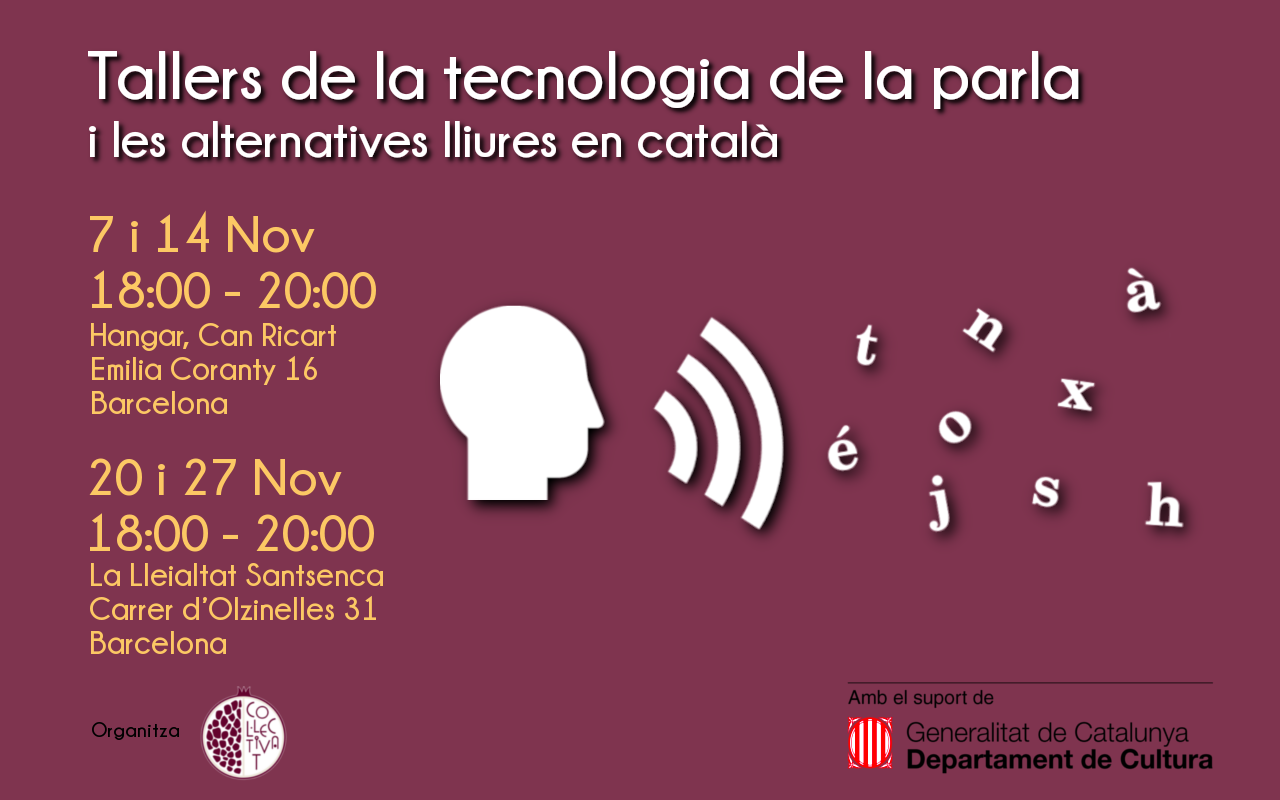
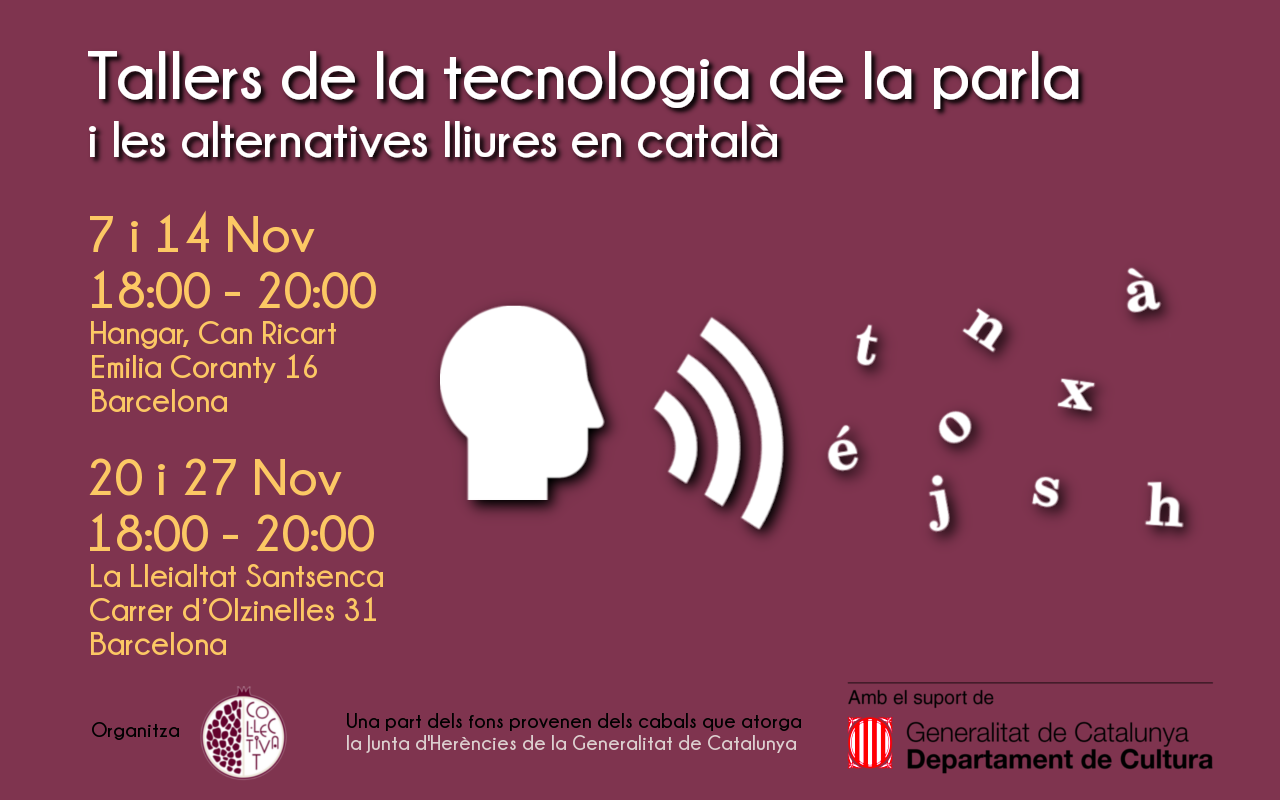
junta de herencies update

Changed region(s): [[0.25, 0.875, 0.625, 0.9375], [0.0625, 0.4062, 0.25, 0.5312], [0.0625, 0.7188, 0.2812, 0.8125]]

diff --git a/blog/_posts/2019-10-16-talleres-tecnologia-del-habla.md b/blog/_posts/2019-10-16-talleres-tecnologia-del-habla.md
@@ -46,7 +46,8 @@ Las participantes deberían llevar sus ordenadores en ambos sesiones. Las tareas
 Catalán/Castellano
 
 ### Precio:
-Gratuito. Estos talleres tienen el apoyo del Departament de la Cultura.
+Gratuito. Estos talleres tienen el apoyo del Departament de la Cultura y una parte de los fondos provienen de los caudales que otorga la Junta d'Herències de la Generalitat de Catalunya.
+
 
 ### Programa:
 Presentación (40 minutos)

diff --git a/blog/_posts/2019-10-16-tallers-tecnologia-de-la-parla.md b/blog/_posts/2019-10-16-tallers-tecnologia-de-la-parla.md
@@ -47,7 +47,7 @@ Les participants han portar els seus ordinadors a totes dues sessions. Les tasqu
 Català/Castellà
 
 ### Preu:
-Gratuït. Aquests tallers tenen el suport del Departament de la Cultura.
+Gratuït. Aquests tallers tenen el suport del Departament de la Cultura i una part dels fons provenen dels cabals que atorga la Junta d'Herències de la Generalitat de Catalunya
 
 ### Programa:
 Presentació (40 minuts)
